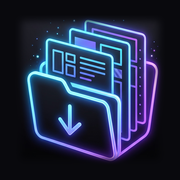
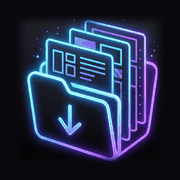
iPhoneのホーム画面でアイコンが文字になる件の対策を追加 (ver1.13.4)
- apple-touch-iconをページ内に埋め込み（取得不要に）
- manifestにid・scope・180pxアイコン・purpose anyを追加
- ルートにapple-touch-icon-180x180系も配置、ホーム画面用のmetaを追加

Claude-Session: https://claude.ai/code/session_01NahwKCPrryYqyGJ8GzHUbD

diff --git a/index.html b/index.html
@@ -5,11 +5,14 @@
 <meta name="viewport" content="width=device-width, initial-scale=1.0, maximum-scale=1.0, minimum-scale=1.0, user-scalable=no" />
 <title>Template</title>
 <meta name="theme-color" content="#111111" />
-<link rel="icon" type="image/png" sizes="192x192" href="icons/icon-192.png?v=1.13.3" />
-<link rel="icon" type="image/png" sizes="32x32" href="icons/icon-32.png?v=1.13.3" />
-<link rel="icon" type="image/png" sizes="16x16" href="icons/icon-16.png?v=1.13.3" />
-<link rel="apple-touch-icon" sizes="180x180" href="icons/icon-180.png?v=1.13.3" />
-<link rel="manifest" href="manifest.json?v=1.13.3" />
+<link rel="icon" type="image/png" sizes="192x192" href="icons/icon-192.png?v=1.13.4" />
+<link rel="icon" type="image/png" sizes="32x32" href="icons/icon-32.png?v=1.13.4" />
+<link rel="icon" type="image/png" sizes="16x16" href="icons/icon-16.png?v=1.13.4" />
[1 lines of base64/hex data omitted]
+<meta name="apple-mobile-web-app-capable" content="yes" />
+<meta name="mobile-web-app-capable" content="yes" />
+<meta name="apple-mobile-web-app-title" content="Template" />
+<link rel="manifest" href="manifest.json?v=1.13.4" />
 <link rel="stylesheet" href="style.css" />
 </head>
 <body>

diff --git a/version.js b/version.js
@@ -1,2 +1,2 @@
-window.APP_VERSION = "1.13.3";
-window.APP_BUILT_AT = "2026-10-24T01:42:48.138Z";
+window.APP_VERSION = "1.13.4";
+window.APP_BUILT_AT = "2026-10-24T02:19:13.480Z";
